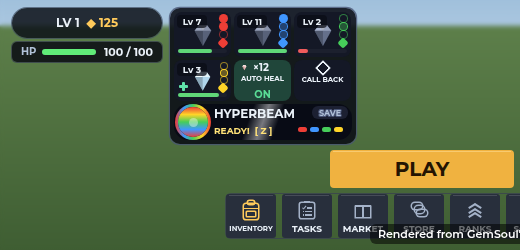
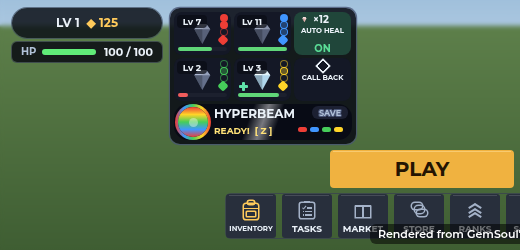
Kaiju card: the kaiju two by two, the buttons beside them
The card stays three by three, but the kaiju now sit in two rows of two
on the left (the lead and the second on top, the third and the support
under them, rows the same height), with AUTO HEAL over CALL BACK in the
right column and the HYPERBEAM still along the bottom.

Claude-Session: https://claude.ai/code/session_01M9AaiFqQ2dWL5tTu8tuKaL

Changed region(s): [[0.3385, 0.028, 0.6769, 0.42]]

diff --git a/docs/kaiju.md b/docs/kaiju.md
@@ -470,8 +470,10 @@ above the combat HUD near the bottom center:
 
 - **The kaiju card:** one card, three across and three down
   (`MobileLayout.kaiju`, `kaijuDesk`, `kaijuCells`):
-  - **Top row:** your team's three, the lead first (edged in gold).
-  - **Middle row:** your support, AUTO HEAL and CALL BACK.
+  - **The kaiju, two by two on the left:** your team's three (the lead
+    first, edged in gold, then the second beside it and the third under
+    it), and your support beside the third.
+  - **On the right:** AUTO HEAL over CALL BACK.
   - **Bottom row:** the team's [HYPERBEAM](#hyperbeam), the full width of
     the card.
 
@@ -1048,7 +1050,7 @@ Proposed guardrails:
 | `SparServer` | `Hunt`: the kit out alone |
 | `Shared.KaijuBeam` | The HYPERBEAM's rules: mana (`Mana`, `gain`, `spend`, `team`), its timeline and phases, the formation and the leaps into it (`Leap`, `leap`, `leapHeight`, `arc`), the beam's reach (`hits`), the aim assist (`aim`) and its damage |
 | `KaijuBeamServer` | Mana on each kaiju's record (`KaijuCharge` and `KaijuSave` on you, `Mana` on each model), SAVE CHARGE (`KaijuSaveCharge`), the blast (`KaijuBeam`): the formation, holding them still, the pulses, letting go |
-| `KaijuHud` (client) | The kaiju card (three by three: the team, the support, AUTO HEAL, CALL BACK, and the HYPERBEAM's row), CATCH, a wild kaiju's Challenge, the kaiju panel and its HEAL tab, and the roll in the Outpost for a player still owed one |
+| `KaijuHud` (client) | The kaiju card (three by three: the team and the support two by two, AUTO HEAL over CALL BACK beside them, and the HYPERBEAM's row), CATCH, a wild kaiju's Challenge, the kaiju panel and its HEAL tab, and the roll in the Outpost for a player still owed one |
 | `KaijuRoll` (client) | The starter roll's screen, on the intro gem roll's reels (`KaijuRoll.Frame` frames the kaiju in each window): in the intro after the move reveal (`Intro.client`), and in the Outpost (`KaijuHud`) |
 | `KaijuBeamHud` (client) | The HYPERBEAM button: the charge, the pips, READY, SAVE, Z / tap |
 | `KaijuBeamFx` (client) | The blast on screen: the rune circle, each leap carried along its arc and slammed down, the roar, the auras, the streams and orb, the beam; your camera, roll call, letterbox, grade and bloom (`shot`, `flight`; `tools/vfx_sim.luau`'s Hyperbeam renders it) |
